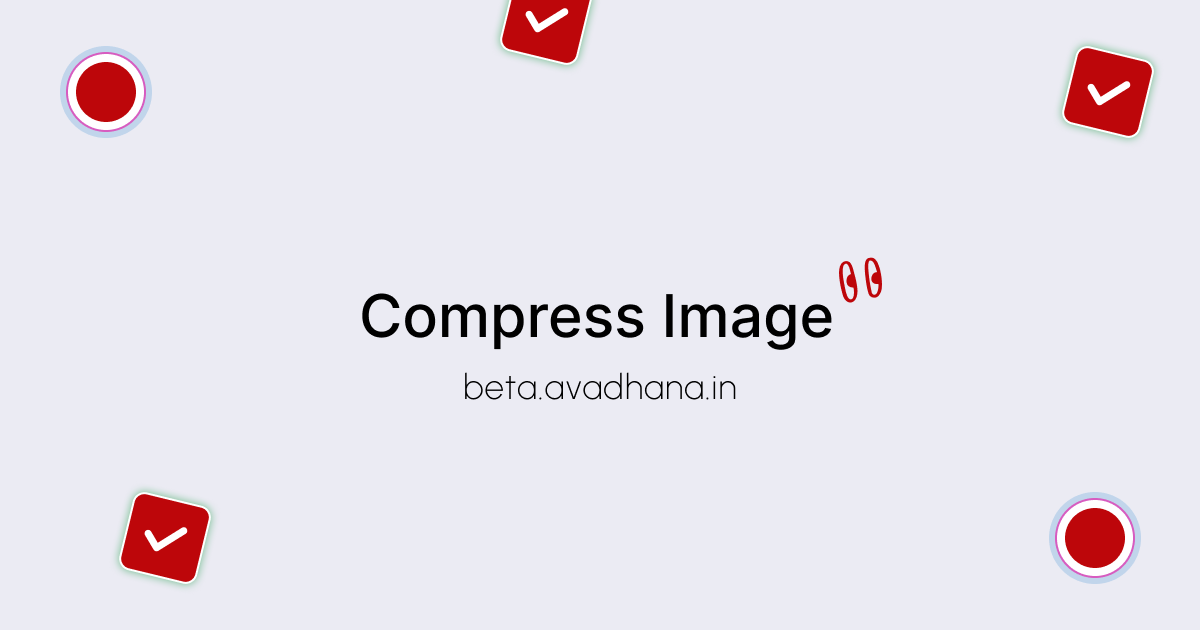
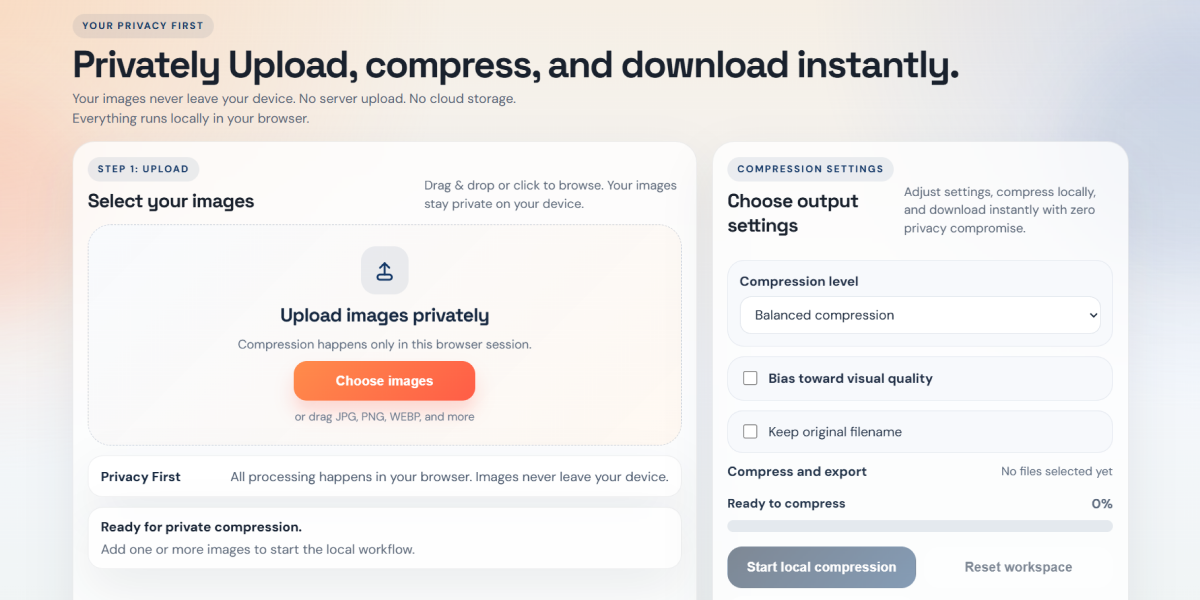
image changed and text modified

diff --git a/src/App.js b/src/App.js
@@ -157,8 +157,8 @@ function App() {
       <div className="App">
         <header className="workspace-header">
           <div>
-            <span className="eyebrow">Privacy First Compress</span>
-            <h1>Upload, compress, and download instantly.</h1>
+            <span className="eyebrow">Your Privacy First</span>
+            <h1>Privately Upload, compress, and download instantly.</h1>
             <p>
               Your images never leave your device. No server upload. No cloud storage. Everything runs locally in your browser.
             </p>
@@ -224,8 +224,8 @@ function App() {
           <section className="workspace-card workspace-card--secondary workspace-panel">
             <div className="section-heading">
               <div>
-                <span className="section-heading__eyebrow">Step 2 & 3: Compress & Download</span>
-                <h2>Configure and export</h2>
+                <span className="section-heading__eyebrow">Compression settings</span>
+                <h2>Choose output settings</h2>
               </div>
               <p>Adjust settings, compress locally, and download instantly with zero privacy compromise.</p>
             </div>
